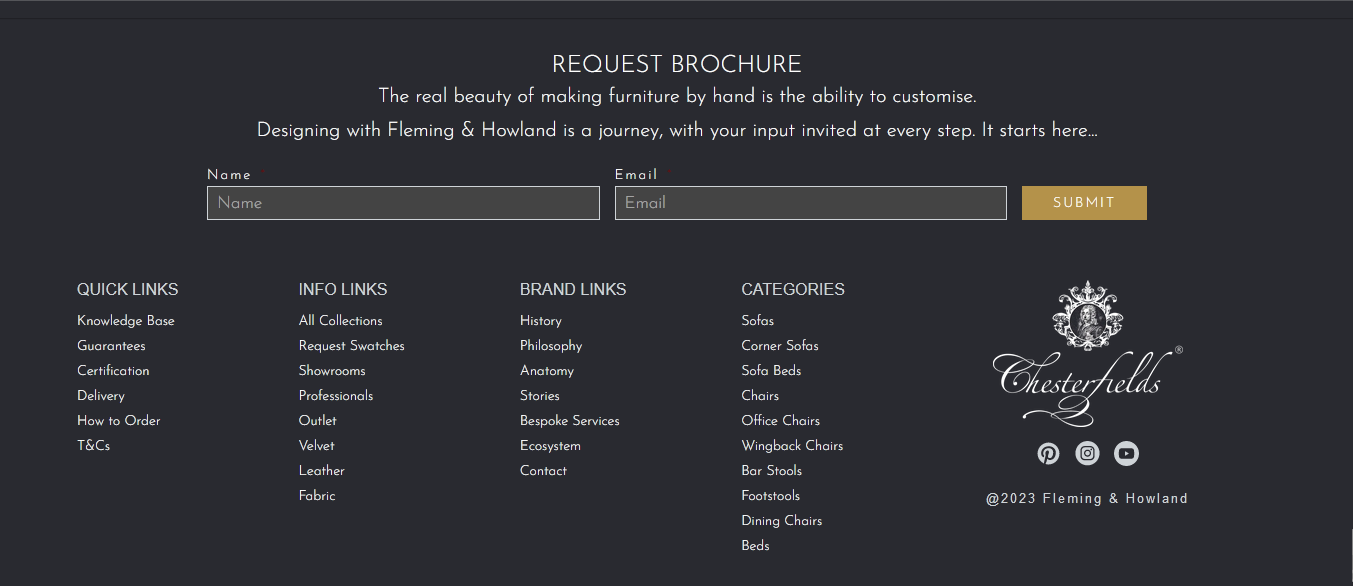
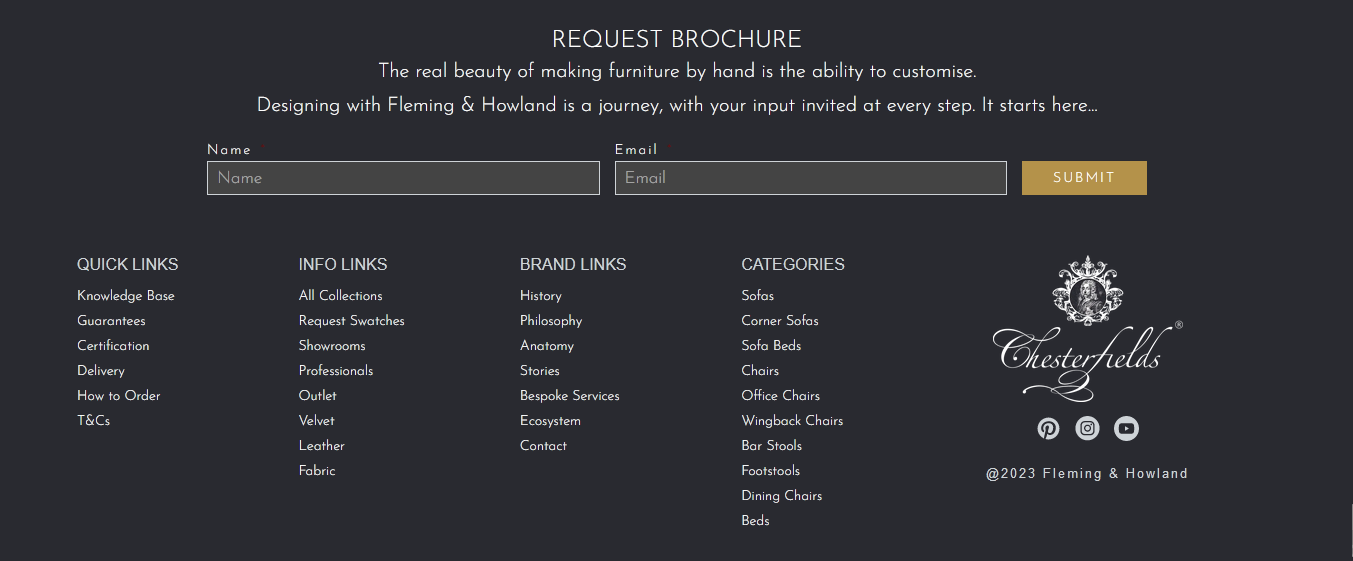
working on footer

diff --git a/components/index.html b/components/index.html
@@ -194,7 +194,7 @@
                         turned his hand to the craft of chair making. The Howlands remained self-employed craftsmen
                         until
                         3rd generation George Howland started a small workshop ’employing 2 men’ (1881 census).</p>
-                        <p class="link"><a class="button-link" href="#!">The Upholder</a></p>
+                    <p class="link"><a class="button-link" href="#!">The Upholder</a></p>
                 </div>
                 <div class="image-container">
                     <img src="./img/600x400_badge.jpg" alt="Chesterfield badge">
@@ -213,6 +213,94 @@
             <p>Code:</p>
             <div class="full-image">
                 <img src="./img/Cromwell-3-seat-OE-Black-Pleated-Arm-1.jpg" alt="black leather couch">
+            </div>
+        </div>
+    </article>
+    <article class="component">
+        <h3 class="component-name">footer</h3>
+        <div class="component-image">
+            <img src="./img/footer.png" alt="website footer">
+        </div>
+
+        <div class="component-code">
+            <p>Code:</p>
+            <div class="footer">
+                <div class="footer-p">
+                    <h3>Request brochure</h3>
+
+                    <p>The real beauty of making furniture by hand is the ability to customise.
+
+                        Designing with Fleming &amp; Howland is a journey, with your input invited at every step. It
+                        starts
+                        here...</p>
+                </div>
+                <div class="footer-input">
+                    <input type="text" placeholder="name"> <input type="text" placeholder="Email">
+                    <p class="link"><a class="button-link" href="#!">submit</a></p>
+                </div>
+                <div class="footer-links">
+                    <div>
+                        <ul class="quicklinks">
+                            <li>
+                                <h4>Quick Links</h4>
+                            </li>
+                            <li><a href="#!">Knowledge Base</a></li>
+                            <li><a href="#!">Guarantees</a></li>
+                            <li><a href="#!">Certification</a></li>
+                            <li><a href="#!">Delivery</a></li>
+                            <li><a href="#!">How to Order</a></li>
+                            <li><a href="#!">T&amp;Cs</a></li>
+                        </ul>
+                    </div>
+                    <div>
+                        <ul class="quicklinks">
+                            <li>
+                                <h4>Info Links</h4>
+                            </li>
+                            <li><a href="#!">All Collections</a></li>
+                            <li><a href="#!">Request Swatches</a></li>
+                            <li><a href="#!">Showrooms</a></li>
+                            <li><a href="#!">Professionals</a></li>
+                            <li><a href="#!">Outlet</a></li>
+                            <li><a href="#!">Velvet</a></li>
+                            <li><a href="#!">Leather</a></li>
+                            <li><a href="#!">Fabric</a></li>
+                        </ul>
+                    </div>
+                    <div>
+                        <ul class="quicklinks">
+                            <li>
+                                <h4>Brand Links</h4>
+                            </li>
+                            <li><a href="#!">All Collections</a></li>
+                            <li><a href="#!">Request Swatches</a></li>
+                            <li><a href="#!">Showrooms</a></li>
+                            <li><a href="#!">Professionals</a></li>
+                            <li><a href="#!">Outlet</a></li>
+                            <li><a href="#!">Velvet</a></li>
+                            <li><a href="#!">Leather</a></li>
+                            <li><a href="#!">Fabric</a></li>
+                        </ul>
+                    </div>
+                    <div>
+                        <ul class="quicklinks">
+                            <li>
+                                <h4>Categories</h4>
+                            </li>
+                            <li><a href="#!">All Collections</a></li>
+                            <li><a href="#!">Request Swatches</a></li>
+                            <li><a href="#!">Showrooms</a></li>
+                            <li><a href="#!">Professionals</a></li>
+                            <li><a href="#!">Outlet</a></li>
+                            <li><a href="#!">Velvet</a></li>
+                            <li><a href="#!">Leather</a></li>
+                            <li><a href="#!">Fabric</a></li>
+                        </ul>
+                    </div>
+                    <div class="quicklinks">
+                        <img class="footer-pic" src="./img/chesterfields-badge-white-3.png" alt="logo">
+                    </div>
+                </div>
             </div>
         </div>
     </article>

diff --git a/css/style.css b/css/style.css
@@ -33,12 +33,15 @@ body {
     border: 2px solid var(--black);
     overflow-x: auto;
     text-align: center;
+    margin: 0;
 }
 
 .component-code {
     border: 2px solid var(--black);
 
 }
+
+
 
 /*main heading*/
 h1 {
@@ -242,6 +245,36 @@ nav a {
     padding: 100px;
 }
 
+/* full image section */
+
 .full-image img {
-max-width: 100%;
+    max-width: 100%;
+}
+
+.footer {
+    background-color: var(--dark-gray);
+    color: var(--white);
+}
+
+.footer-links {
+    display: flex;
+    flex-direction: row;
+    justify-content: space-evenly;
+    align-items: start;
+}
+
+.quicklinks {
+    display: flex;
+    flex-direction: column;
+    justify-content: space-evenly;
+    list-style-type: none;
+    
+}
+
+.quicklinks a {
+    color: var(--white);
+}
+
+.footer-pic {
+    max-width: 30%;
 }
